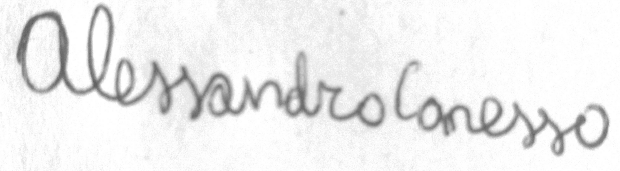
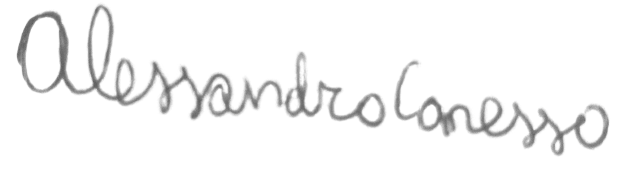
bg firme ok

diff --git a/Piano_di_progetto/sezioni/organigramma.tex b/Piano_di_progetto/sezioni/organigramma.tex
@@ -2,10 +2,10 @@
 
 %definizione colori per tabelle (tranne copertina)
 \definecolor{redafk}{RGB}{255, 71, 87}
-%\definecolor{grey2}{RGB}{204, 204, 204}
-%\definecolor{greyRowafk}{RGB}{234, 234, 234}
-%\definecolor{lastrowcolor}{RGB}{156, 198, 214}
-\rowcolors{2}{white}{white}
+\definecolor{grey2}{RGB}{204, 204, 204}
+\definecolor{greyRowafk}{RGB}{234, 234, 234}
+\definecolor{lastrowcolor}{RGB}{156, 198, 214}
+%\rowcolors{2}{white}{white}
 \renewcommand{\arraystretch}{1.5}
 
 \subsection{Redazione} 
@@ -14,9 +14,9 @@
 	\begin{tabular}{ c c C{8cm} }
 		\rowcolor{redafk}
 		\textcolor{white}{\textbf{Nominativo}} & \textcolor{white}{\textbf{Data di redazione}} & \textcolor{white}{\textbf{Firma}} \\
-		Olivier Outshudi & 2020-04-10 & \includegraphics[scale=0.3]{img/firme/outshudi.png}\\
-		Simone Meneghin & 2020-04-10 & \includegraphics[scale=0.10]{img/firme/meneghin.png}\\
-		Davide Zilio & 2020-04-10 & \includegraphics[scale=0.4]{img/firme/zilio.png}\\
+		Olivier Outshudi & 2020-04-10 & \includegraphics[scale=0.3, width=0.25\textwidth]{img/firme/outshudi.png}\\
+		Simone Meneghin & 2020-04-10 & \includegraphics[scale=0.3, width=0.25\textwidth]{img/firme/meneghin.png}\\
+		Davide Zilio & 2020-04-10 & \includegraphics[scale=0.2, width=0.2\textwidth]{img/firme/zilio.png}\\
 	\end{tabular}
 	\end{center}	
 \end{table}
@@ -24,7 +24,7 @@
 \subsection{Approvazione} 
 \begin{table}[H]
 	\begin{center}
-	\begin{tabular}{ c c C{8cm} }
+	\begin{tabular}{ c c C{7.4cm} }
 		\rowcolor{redafk}
 		\textcolor{white}{\textbf{Nominativo}} & \textcolor{white}{\textbf{Data di approvazione}} & \textcolor{white}{\textbf{Firma}} \\
 		 & 2020-04-11 & \\
@@ -40,13 +40,13 @@
 	\begin{tabular}{ c c C{6cm}}
 		\rowcolor{redafk}
 		\textcolor{white}{\textbf{Nominativo}} & \textcolor{white}{\textbf{Data di accettazione}} & \textcolor{white}{\textbf{Firma}} \\
-		Simone Federico Bergamin & 2020-03-09 & \includegraphics[scale=0.2]{img/firme/bergamin.png}\\
-		Alessandro Canesso & 2020-03-09 & \includegraphics[scale=0.3]{img/firme/canesso.png}\\
-		Victor Dutca & 2020-03-09 & \includegraphics[scale=0.2]{img/firme/dutca.png}\\
-		Fouad Farid & 2020-03-09 & \includegraphics[scale=0.2]{img/firme/farid.png}\\
-		Simone Meneghin & 2020-03-09 & \includegraphics[scale=0.10]{img/firme/meneghin.png}\\
-		Olivier Outshudi & 2020-03-09 & \includegraphics[scale=0.3]{img/firme/outshudi.png}\\
-		Davide Zilio & 2020-03-09 & \includegraphics[scale=0.4]{img/firme/zilio.png}\\
+		Simone Federico Bergamin & 2020-03-09 & \includegraphics[scale=0.4]{img/firme/bergamin.png}\\
+		Alessandro Canesso & 2020-03-09 & \includegraphics[scale=0.3, width=0.25\textwidth]{img/firme/canesso.png}\\
+		Victor Dutca & 2020-03-09 & \includegraphics[scale=0.3, width=0.25\textwidth]{img/firme/dutca.png}\\
+		Fouad Farid & 2020-03-09 & \includegraphics[scale=0.2, width=0.2\textwidth]{img/firme/farid.png}\\
+		Simone Meneghin & 2020-03-09 & \includegraphics[scale=0.3, width=0.25\textwidth]{img/firme/meneghin.png}\\
+		Olivier Outshudi & 2020-03-09 & \includegraphics[scale=0.3, width=0.25\textwidth]{img/firme/outshudi.png}\\
+		Davide Zilio & 2020-03-09 & \includegraphics[scale=0.2, width=0.2\textwidth]{img/firme/zilio.png}\\
 	\end{tabular}
 	\end{center}
 \end{table}
@@ -54,7 +54,7 @@
 \subsection{Componenti}
 \begin{table}[H]	
 	\begin{center}
-	\begin{tabular}{ c c C{8cm} }
+	\begin{tabular}{ c c C{8.3cm} }
 		\rowcolor{redafk}
 		\textcolor{white}{\textbf{Nominativo}} & \textcolor{white}{\textbf{Matricola}} & \textcolor{white}{\textbf{Indirizzo email}} \\
 		Simone Federico Bergamin & 1144724  & simonefederico.bergamin@studenti.unipd.it \\

diff --git a/Piano_di_progetto/piano_di_progetto_v1.0.0.tex b/Piano_di_progetto/piano_di_progetto_v1.0.0.tex
@@ -71,6 +71,7 @@ x = esami arretrati
 \input{sezioni/consuntivo.tex}
 \pagebreak
 
+\appendix
 \input{sezioni/organigramma.tex}
 \pagebreak
 
